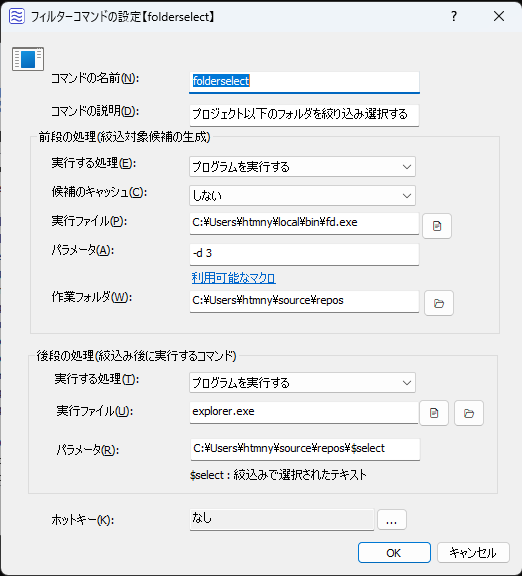
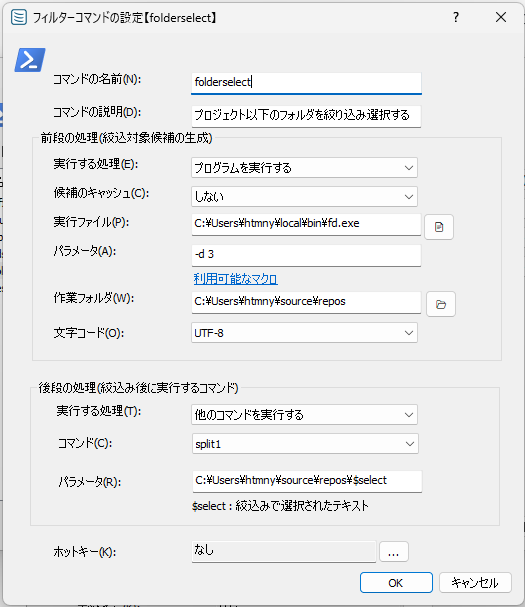
[フィルタコマンド]前段のプログラムが出力するバイト列を文字列として解釈する際のエンコーディングを指定できるようにした

diff --git a/soyokaze/commands/filter/FilterEditDialog.cpp b/soyokaze/commands/filter/FilterEditDialog.cpp
@@ -80,6 +80,7 @@ void FilterEditDialog::DoDataExchange(CDataExchange* pDX)
 	DDX_CBIndex(pDX, IDC_COMBO_PREFILTERTYPE, mParam.mPreFilterType);
 	DDX_CBIndex(pDX, IDC_COMBO_AFTERTYPE, mParam.mPostFilterType);
 	DDX_Text(pDX, IDC_EDIT_PATH2, mParam.mAfterFilePath);
+	DDX_CBIndex(pDX, IDC_COMBO_PREFILTERCODEPAGE, mPreFilterCodePageIndex);
 }
 
 #pragma warning( push )
@@ -151,6 +152,18 @@ BOOL FilterEditDialog::OnInitDialog()
 		}
 	}
 
+	// 前段フィルタの文字コード
+	if (mParam.mPreFilterCodePage == CP_UTF8) {
+		mPreFilterCodePageIndex = 0;
+	}
+	else if (mParam.mPreFilterCodePage == 932) {   // codepage 932 → sjis
+		mPreFilterCodePageIndex = 1;
+	}
+	else {
+		// その他の値はUTF-8扱い
+		mPreFilterCodePageIndex = 0;
+	}
+
 	UpdateStatus();
 	UpdateData(FALSE);
 
@@ -164,7 +177,7 @@ bool FilterEditDialog::UpdateStatus()
 		mHotKey.LoadString(IDS_NOHOTKEY);
 	}
 
-	int showTypePreFilter = mParam.mPreFilterType == 0 ? SW_SHOW : SW_HIDE;
+	int showTypePreFilter = mParam.mPreFilterType == FILTER_SUBPROCESS ? SW_SHOW : SW_HIDE;
 	GetDlgItem(IDC_STATIC_PATH)->ShowWindow(showTypePreFilter);
 	GetDlgItem(IDC_EDIT_PATH)->ShowWindow(showTypePreFilter);
 	GetDlgItem(IDC_BUTTON_BROWSEFILE1)->ShowWindow(showTypePreFilter);
@@ -176,6 +189,8 @@ bool FilterEditDialog::UpdateStatus()
 	GetDlgItem(IDC_SYSLINK_MACRO)->ShowWindow(showTypePreFilter);
 	GetDlgItem(IDC_STATIC_CACHECANDIDATES)->ShowWindow(showTypePreFilter);
 	GetDlgItem(IDC_COMBO_CANDIDATECACHE)->ShowWindow(showTypePreFilter);
+	GetDlgItem(IDC_STATIC_PREFILTERCODEPAGE)->ShowWindow(showTypePreFilter);
+	GetDlgItem(IDC_COMBO_PREFILTERCODEPAGE)->ShowWindow(showTypePreFilter);
 
 	if (mParam.mPostFilterType == 0) {
 		// 他のコマンドを実行する
@@ -307,6 +322,17 @@ void FilterEditDialog::OnOK()
 	if (mParam.mPostFilterType == 0) {
 		CComboBox* cmbBox = (CComboBox*)GetDlgItem(IDC_COMBO_AFTERCOMMAND);
 		cmbBox->GetLBText(mCommandSelIndex, mParam.mAfterCommandName);
+	}
+
+	if (mPreFilterCodePageIndex == 0) {
+		mParam.mPreFilterCodePage = CP_UTF8;
+	}
+	else if (mPreFilterCodePageIndex == 1) {
+		mParam.mPreFilterCodePage = 932;
+	}
+	else {
+		// その他の値はUTF-8扱い
+		mParam.mPreFilterCodePage = CP_UTF8;
 	}
 
 	__super::OnOK();

diff --git a/soyokaze/commands/filter/FilterExecutor.cpp b/soyokaze/commands/filter/FilterExecutor.cpp
@@ -241,7 +241,7 @@ bool FilterExecutor::PImpl::LoadCandidatesFromSubProcess(const CommandParam& par
 	std::vector<char> output;
 	std::vector<char> err;
 
-	CharConverter conv;
+	CharConverter conv(param.mPreFilterCodePage);
 
 	bool isExitChild = false;
 	while(isExitChild == false) {
@@ -267,7 +267,6 @@ bool FilterExecutor::PImpl::LoadCandidatesFromSubProcess(const CommandParam& par
 	}
 	output.push_back(0x00);
 
-	// ToDo: 文字コードを選べるようにする
 	CString src;
 	conv.Convert(&output.front(), src);
 
@@ -426,15 +425,15 @@ void FilterExecutor::LoadCandidates(const CommandParam& param)
 
 		AddRef();
 
-		if (param.mPreFilterType == 0) {
+		if (param.mPreFilterType == FILTER_SUBPROCESS) {
 			// 子プロセスの出力から絞込み文字列を得る
 			in->LoadCandidatesFromSubProcess(param);
 		}
-		else if (param.mPreFilterType == 1) {
+		else if (param.mPreFilterType == FILTER_CLIPBOARD) {
 			// クリップボードの値から
 			in->LoadCandidatesFromClipboard(param);
 		}
-		else if (param.mPreFilterType == 2) {
+		else if (param.mPreFilterType == FILTER_TEXT) {
 			// 固定値
 			in->LoadCandidatesFromDefinedValue(param);
 		}

diff --git a/soyokaze/commands/filter/FilterCommandParam.cpp b/soyokaze/commands/filter/FilterCommandParam.cpp
@@ -9,7 +9,8 @@ CommandParam::CommandParam() :
 	mAfterCommandParam(_T("$select")),
 	mPreFilterType(0),
 	mCacheType(0),
-	mPostFilterType(0)
+	mPostFilterType(0),
+	mPreFilterCodePage(CP_UTF8)
 {
 }
 
@@ -21,6 +22,7 @@ CommandParam::CommandParam(const CommandParam& rhs) :
 	mParameter(rhs.mParameter),
 	mPreFilterType(rhs.mPreFilterType),
 	mCacheType(rhs.mCacheType),
+	mPreFilterCodePage(rhs.mPreFilterCodePage),
 	mPostFilterType(rhs.mPostFilterType),
 	mAfterCommandName(rhs.mAfterCommandName),
 	mAfterFilePath(rhs.mAfterFilePath),
@@ -43,6 +45,7 @@ CommandParam& CommandParam::operator = (const CommandParam& rhs)
 		mParameter = rhs.mParameter;
 		mPreFilterType = rhs.mPreFilterType;
 		mCacheType = rhs.mCacheType;
+		mPreFilterCodePage = rhs.mPreFilterCodePage;
 		mPostFilterType = rhs.mPostFilterType;
 		mAfterCommandName = rhs.mAfterCommandName;
 		mAfterFilePath = rhs.mAfterFilePath;

diff --git a/soyokaze/resource.h b/soyokaze/resource.h
@@ -211,6 +211,8 @@
 #define IDC_COMBO_PREFILTERTYPE2        1033
 #define IDC_COMBO_CANDIDATECACHE        1033
 #define IDC_BUTTON_EDIT                 1034
+#define IDC_COMBO_PREFILTERTYPE3        1034
+#define IDC_COMBO_PREFILTERCODEPAGE     1034
 #define IDC_BUTTON_EDIT2                1035
 #define IDC_BUTTON_CLONE                1035
 #define IDC_BUTTON_DOWN                 1036
@@ -296,6 +298,7 @@
 #define IDC_STATIC_WORKDIR              1098
 #define IDC_STATIC_SHOWTYPE             1099
 #define IDC_STATIC_WORKDIR2             1099
+#define IDC_STATIC_PREFILTERCODEPAGE    1099
 #define IDC_STATIC_PARAMHELP            1100
 #define IDC_CHECK_ENABLECALCULATOR      1101
 #define IDC_BUTTON_BROWSE               1102

diff --git a/soyokaze/commands/filter/FilterCommandParam.h b/soyokaze/commands/filter/FilterCommandParam.h
@@ -6,6 +6,16 @@ namespace launcherapp {
 namespace commands {
 namespace filter {
 
+// 前段フィルタの種別
+enum PREFILTERTYPE {
+	// 子プロセスの出力
+	FILTER_SUBPROCESS = 0,
+	// クリップボードから取得
+	FILTER_CLIPBOARD,
+	// テキスト文字列
+	FILTER_TEXT,
+};
+
 class CommandParam
 {
 public:
@@ -28,6 +38,8 @@ public:
 	int mPreFilterType;
 	// 候補のキャッシュ方法(0:しない 1:する(アプリ終了まで))
 	int mCacheType;
+	// 前段の文字コード(FILTER_SUBPROCESSのみ)
+	int mPreFilterCodePage;
 	// 後段の処理の種類
 	int mPostFilterType;
 	// 後段のコマンド(mPostFilterType=0の場合)

diff --git a/soyokaze/commands/filter/FilterEditDialog.h b/soyokaze/commands/filter/FilterEditDialog.h
@@ -43,6 +43,7 @@ protected:
 public:
 	CommandParam mParam;
 	int mCommandSelIndex;
+	int mPreFilterCodePageIndex;
 
 	std::unique_ptr<IconLabel> mIconLabelPtr;
 

diff --git a/doc/help.md b/doc/help.md
@@ -1127,11 +1127,14 @@ Directory Index(Webサーバーのインデックスページ)上のディレク
 候補を一度生成したら、以後はアプリ終了まで候補の再生成をしない。  
 結果が頻繁に変わらない場合に適している。
   - `実行ファイル`
-    - `プログラムを実行する`を選択した場合に実行するプログラムを指定する
+    - `プログラムを実行する`を選択した場合に指定可能。実行するプログラムのパスを指定する
   - `パラメータ`
-    - `プログラムを実行する`を選択した場合に実行するプログラムに渡す引数を指定する
+    - `プログラムを実行する`を選択した場合に指定可能。実行するプログラムに渡す引数を指定する
   - `作業フォルダ`
-    - `プログラムを実行する`を選択した場合に実行するプログラムのカレントディレクトリを指定する
+    - `プログラムを実行する`を選択した場合に指定可能。実行するプログラムのカレントディレクトリを指定する
+  - `文字コード`
+    - `プログラムを実行する`を選択した場合に指定可能。実行したプログラムが標準出力に出力したバイト列を、このプログラムが文字列として解釈するときの文字コードを指定する  
+`UTF-8`または`ShiftJIS`を選択可能
 
 - `後段の処理`
   - `実行する処理`  

diff --git a/CHANGELOG.md b/CHANGELOG.md
@@ -6,6 +6,7 @@
 
 - [フォルダ更新検知] 更新通知を行う間隔を設定できるようにした
   - 一度通知したあと、次の通知までの時間を設定できる(更新があっても時間が経過するまで通知をしない)
+- [フィルタコマンド]前段のプログラムが出力するバイト列を文字列として解釈する際のエンコーディングを指定できるようにした
 
 ### Changed
 
